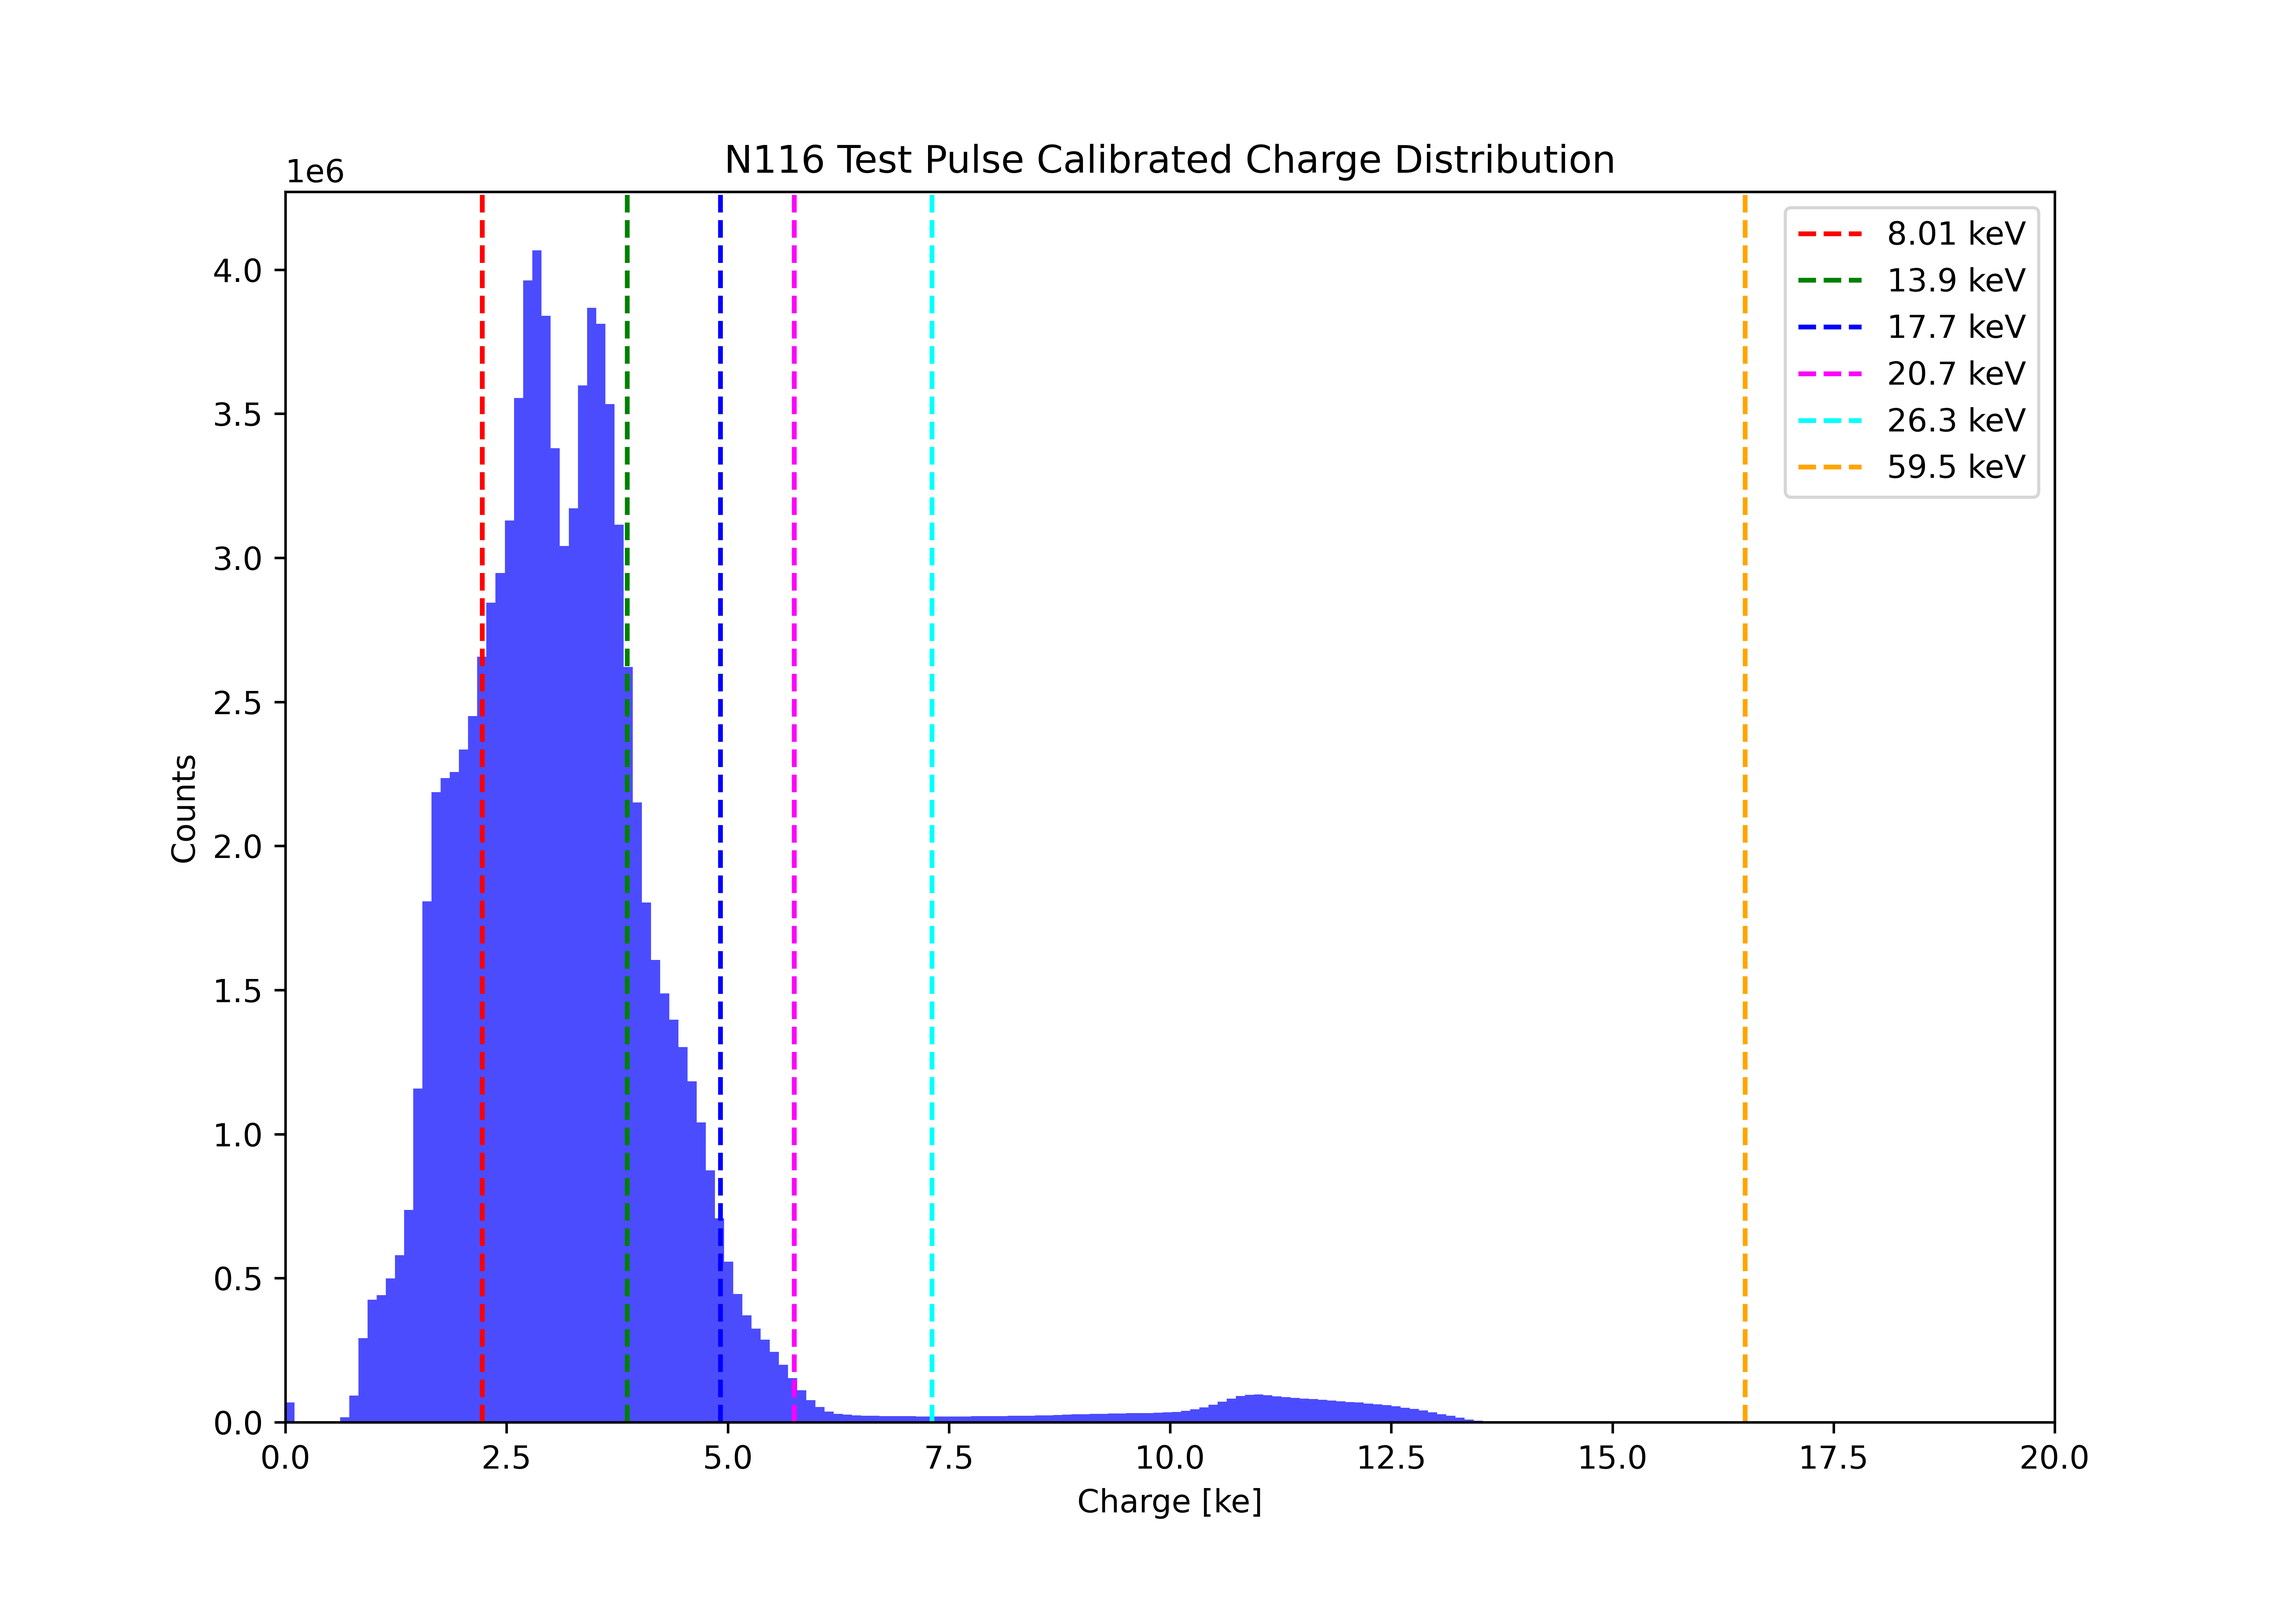
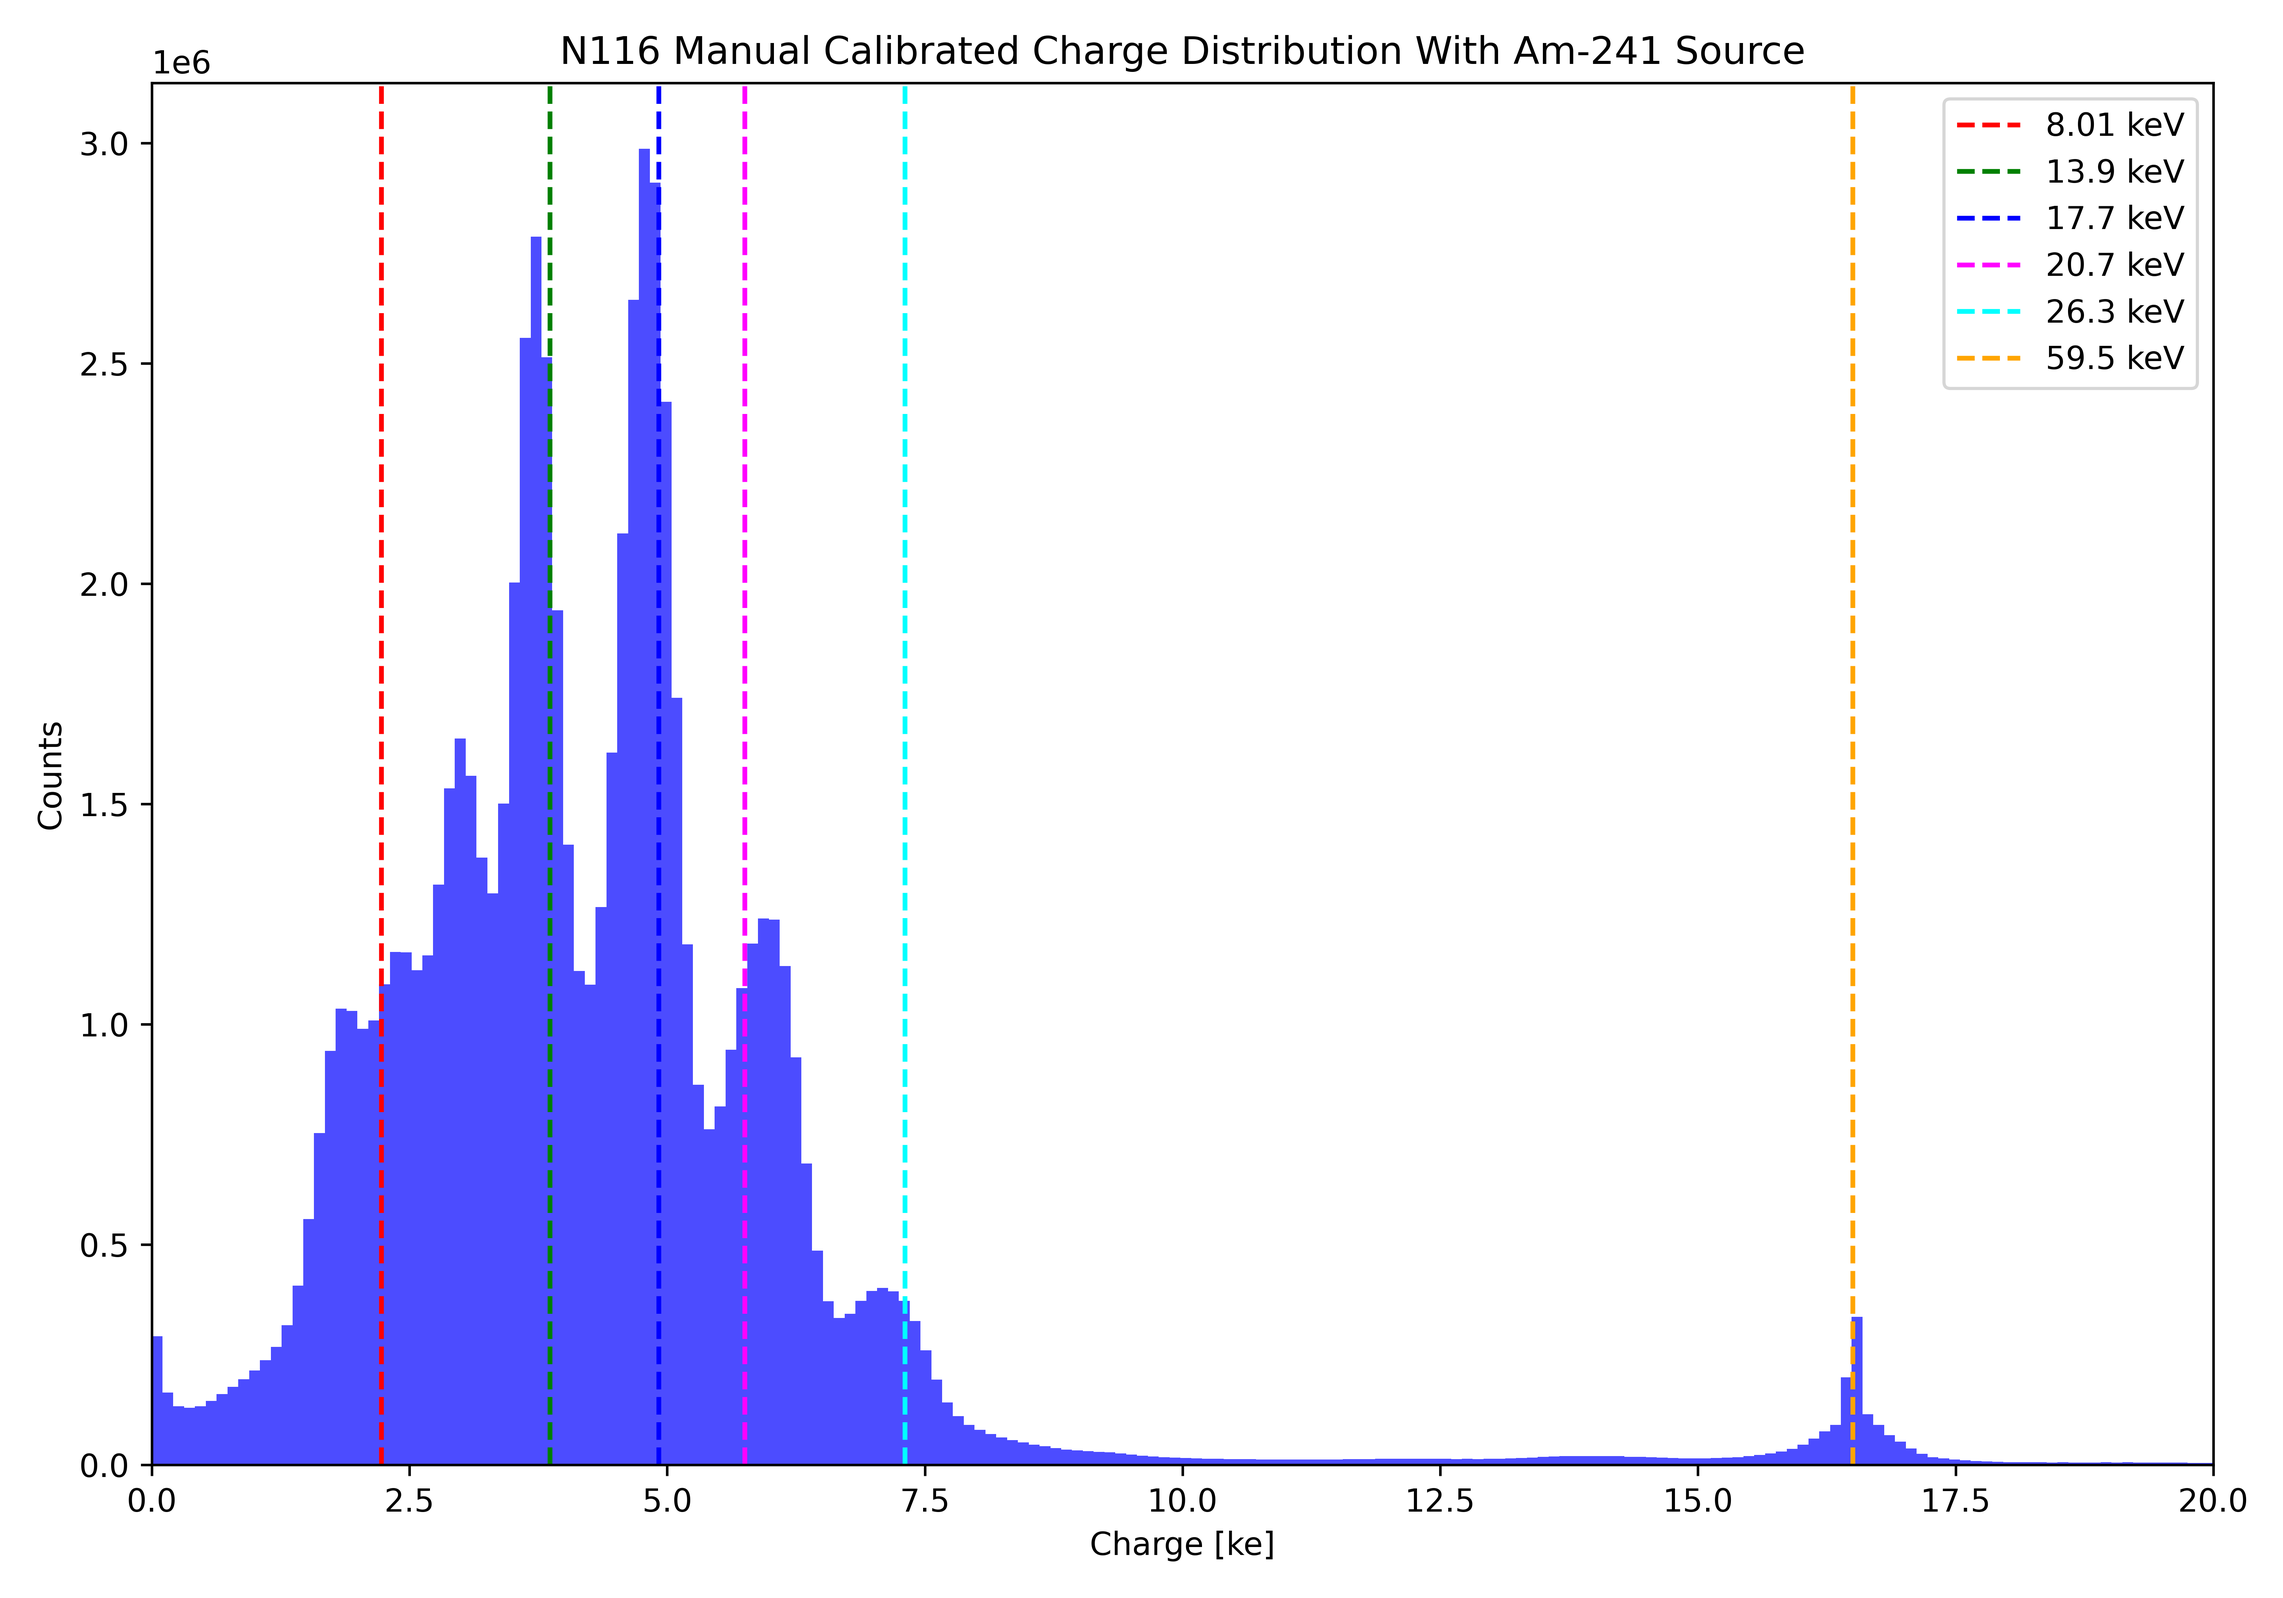
Refactor code structure for improved readability and maintainability

diff --git a/standaardanalyse.cpp b/standaardanalyse.cpp
@@ -26,6 +26,7 @@ const char* N112 = "N112-250407-162648";
 const char* N112_Long = "N112-250411-101613";
 const char* N113 = "N113-250408-100406";
 const char* N116 = "N116-250408-105332";
+const char* N116_Long = "N116-250408-123554";
 // Constants
 const int HistogramArraySize=3;
 const char* variable[HistogramArraySize]={"N hits","ToA","Cluster ToT"};
@@ -60,12 +61,12 @@ int standaardanalyse()
     // auto [hitmap1, HistogramArray1, histcharge1, tot_plot1, singlepixelplot1] = get_file_data(Form("%s.root", filename));
     // auto [hitmap2, HistogramArray2, histcharge2, tot_plot2, singlepixelplot2] = get_file_data(Form("%s.root", filename2));
     // auto [hitmap3, HistogramArray3, histcharge3, tot_plot3, singlepixelplot3] = get_file_data(Form("%s.root", N10_Long));
-    auto [hitmap4, HistogramArray4, histcharge4, tot_plot4, singlepixelplot4, SingleToTPlot4] = get_file_data(Form("Data/Am-241 Runs/%s.root", N112_Long));
+    auto [hitmap4, HistogramArray4, histcharge4, tot_plot4, singlepixelplot4, SingleToTPlot4] = get_file_data(Form("Data/Am-241 Runs/%s.root", N116_Long));
 
     // Make Histograms
     // MakeChargeAndToTHistograms(histcharge4, tot_plot4);
-    // MakeSinglePixelToTHistogram(SingleToTPlot4);
-    MakeChargeAndToTHistograms(histcharge4, tot_plot4);
+    MakeSinglePixelToTHistogram(SingleToTPlot4);
+    // MakeChargeAndToTHistograms(histcharge4, tot_plot4);
     // makehist4(HistogramArray3, hitmap3);
     // MakeChargeAndToTHistograms(histcharge3, tot_plot3);
     // MakeSinglePixelHistogram(singlepixelplot);
@@ -152,7 +153,7 @@ std::tuple<TH2D*, std::array<TH1D*, HistogramArraySize>, TH1D*, TH1D*, TH1D*, TH
             // }
 
             toa_sec=toa[n]/(tosec)*25/128;
-            if (col[n] == 85 && row[n] == 510) {
+            if (col[n] == 228 && row[n] == 230) {
                 SingleToTPlot->Fill(tot[n]);
             }
             HistogramArray[1]->Fill(toa_sec);

diff --git a/ManualCalibration.py b/ManualCalibration.py
@@ -32,8 +32,9 @@ def PlotHistogram(df: pd.DataFrame = None, filepath: str = None):
         )
 
     plt.legend()
-    plt.title("N116 Test Pulse Calibrated Charge Distribution")
+    plt.title("N116 Manual Calibrated Charge Distribution With Am-241 Source")
     plt.grid(False)
+    plt.tight_layout()
     plt.savefig("N116_Charge_Distribution_Manual.png", dpi=600)
     plt.show()
 
@@ -250,4 +251,4 @@ if __name__ == "__main__":
     # PlotCharge(filepath2)
     # PlotToTSinglePixel("N112-250411-101613")
     # calibrationmethods("N10-250409-113326")
-    PlotHistogram(filepath="Data/Filtered Calibration Data/N116-250408-123554-Charge-Data.csv")
+    PlotHistogram(filepath="Data/Filtered Calibration Data/N116-Filtered.csv")
